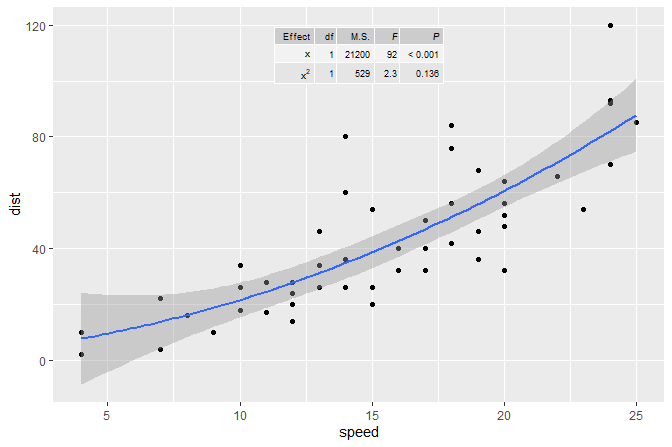
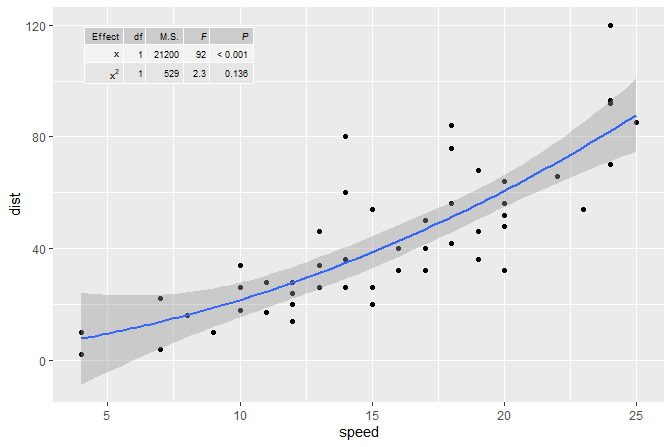
README

diff --git a/README.md b/README.md
@@ -55,11 +55,11 @@ Statistics that help with reporting the results of model fits are:
 
 | Statistic | Returned values (*default geometry*) | Methods |
 |----|----|----|
-| `stat_poly_eq()` | equation, *R*<sup>2</sup>, *P*, etc. (`text_npc`) | lm, rlm (1, 2, 7) |
+| `stat_poly_eq()` | equation, *R*<sup>2</sup>, *P*, etc. (`text_npc`) | lm, rlm, lqs, gls, etc. (1, 2, 7) |
 | `stat_ma_eq()` | equation, *R*<sup>2</sup>, *P*, etc. (`text_npc`) | lmodel2 (6, 7) |
 | `stat_quant_eq()` | equation, *P*, etc. (`text_npc`) | rq (1, 3, 4, 7) |
 | `stat_correlation()` | correlation, *P*-value, CI (`text_npc`) | Pearson (*t*), Kendall (*z*), Spearman (*S*) |
-| `stat_poly_line()` | line + conf. (`smooth`) | lm, rlm (1, 2, 7) |
+| `stat_poly_line()` | line + conf. (`smooth`) | lm, rlm, lqs, gls, etc. (1, 2, 7) |
 | `stat_ma_line()` | line + conf. (`smooth`) | lmodel2 (6, 7) |
 | `stat_quant_line()` | line + conf. (`smooth`) | rq, rqss (1, 3, 4, 7) |
 | `stat_quant_band()` | median + quartiles (`smooth`) | rq, rqss (1, 4, 5, 7) |
@@ -72,17 +72,18 @@ Statistics that help with reporting the results of model fits are:
 | `stat_fit_tb()` | ANOVA and summary tables (`table_npc`) | those supported by ‘broom’ |
 | `stat_multcomp()` | Multiple comparisons (`label_pairwise` or `text`) | those supported by `glht` (1, 2, 7) |
 
-Notes: (1) *weight* aesthetic supported; (2) user defined fit functions
-that return an object of a class derived from `lm` are supported even if
-they override the statistic’s *formula* argument; (3) unlimited
-quantiles supported; (4) user defined fit functions that return an
-object of a class derived from `rq` or `rqs` are supported even if they
-override the statistic’s *formula* and/or *quantiles* argument; (5) two
-and three quantiles supported; (6) user defined fit functions that
-return an object of a class derived from `lmodel2` are supported; (7)
-`method` arguments support colon based notation; (8) various functions
-if method `residuals()` defined for returned value; (9) various
-functions if method `fitted()` defined for returned value.
+Notes: (1) *weight* aesthetic supported; (2) user defined model fit
+functions including wrappers of supported methods are accepted even if
+they modify the model *formula* (additional model fitting methods are
+likely to work, but have not been tested); (3) unlimited quantiles
+supported; (4) user defined fit functions that return an object of a
+class derived from `rq` or `rqs` are supported even if they override the
+statistic’s *formula* and/or *quantiles* argument; (5) two and three
+quantiles supported; (6) user defined fit functions that return an
+object of a class derived from `lmodel2` are supported; (7) `method`
+arguments support colon based notation; (8) model fit functions if
+method `residuals()` defined for returned value; (9) model fit functions
+if method `fitted()` is defined for the returned value.
 
 Statistics `stat_peaks()` and `stat_valleys()` can be used to highlight
 and/or label maxima and minima in a plot.
@@ -197,11 +198,9 @@ ggplot(cars, aes(speed, dist)) +
                           "italic(F)" = "statistic", 
                           "italic(P)" = "p.value"),
               tb.params = c(x = 1, "x^2" = 2),
-              label.y.npc = "top", label.x.npc = "left",
+              label.y = "top", label.x = "left",
               size = 2.5,
               parse = TRUE)
-#> Warning in stat_fit_tb(method = "lm", method.args = list(formula = formula), :
-#> Ignoring unknown parameters: `label.y.npc` and `label.x.npc`
 #> Dropping params/terms (rows) from table!
 ```
 
@@ -323,7 +322,7 @@ publications, please cite according to:
 citation("ggpmisc")
 #> To cite package 'ggpmisc' in publications use:
 #> 
-#>   Aphalo P (2024). _ggpmisc: Miscellaneous Extensions to 'ggplot2'_. R
+#>   Aphalo P (2025). _ggpmisc: Miscellaneous Extensions to 'ggplot2'_. R
 #>   package version 0.6.1.9000, https://github.com/aphalo/ggpmisc,
 #>   <https://docs.r4photobiology.info/ggpmisc/>.
 #> 
@@ -332,7 +331,7 @@ citation("ggpmisc")
 #>   @Manual{,
 #>     title = {ggpmisc: Miscellaneous Extensions to 'ggplot2'},
 #>     author = {Pedro J. Aphalo},
-#>     year = {2024},
+#>     year = {2025},
 #>     note = {R package version 0.6.1.9000, 
 #> https://github.com/aphalo/ggpmisc},
 #>     url = {https://docs.r4photobiology.info/ggpmisc/},
